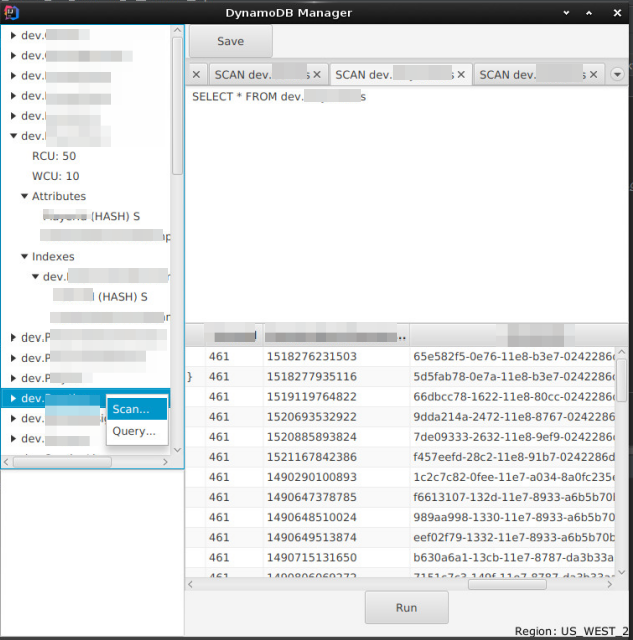
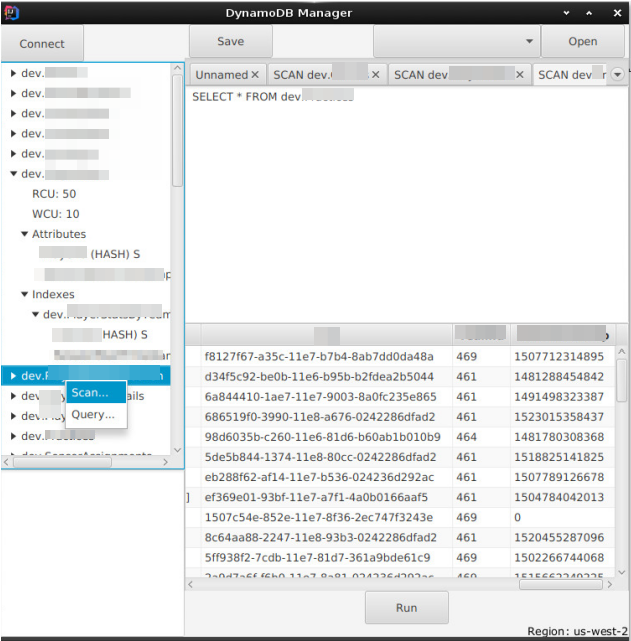
#12 Update README to include connect option

diff --git a/README.md b/README.md
@@ -1,6 +1,10 @@
 ## Dynoman - DynamoDB management UI
 
-![Public Preview](public-preview.png)
+![Initial Screen](public-preview1.png)
+
+![Connect](public-preview2.png)
+
+![Tables](public-preview.png)
 
 ****
 
